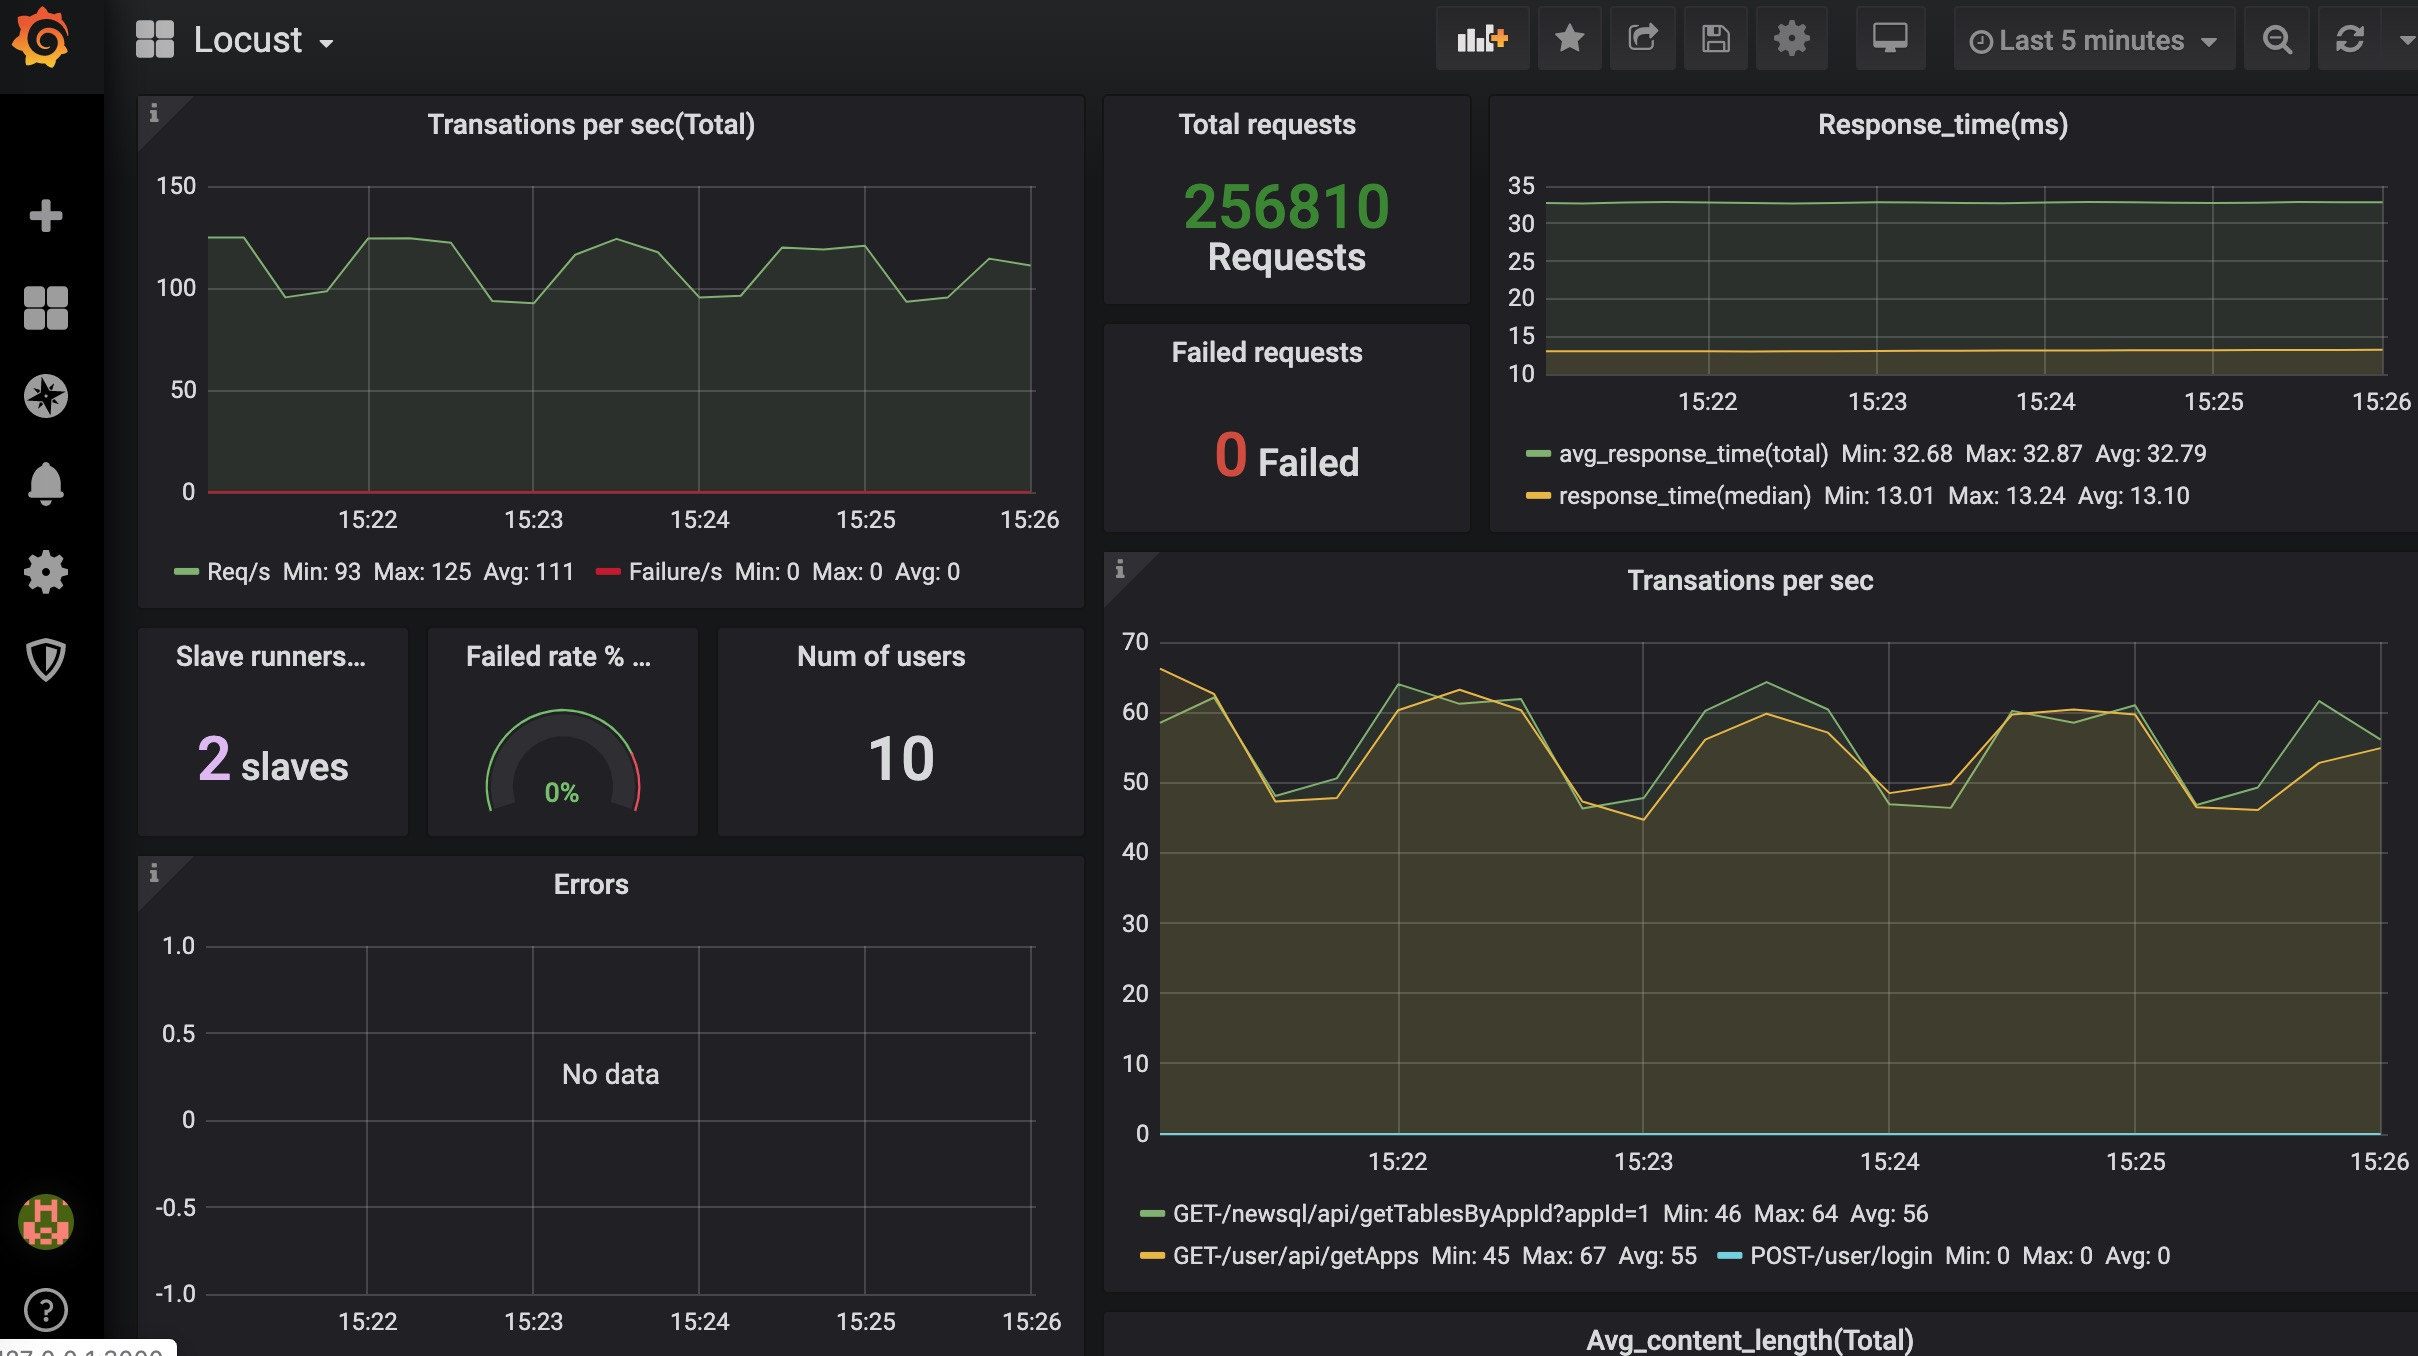
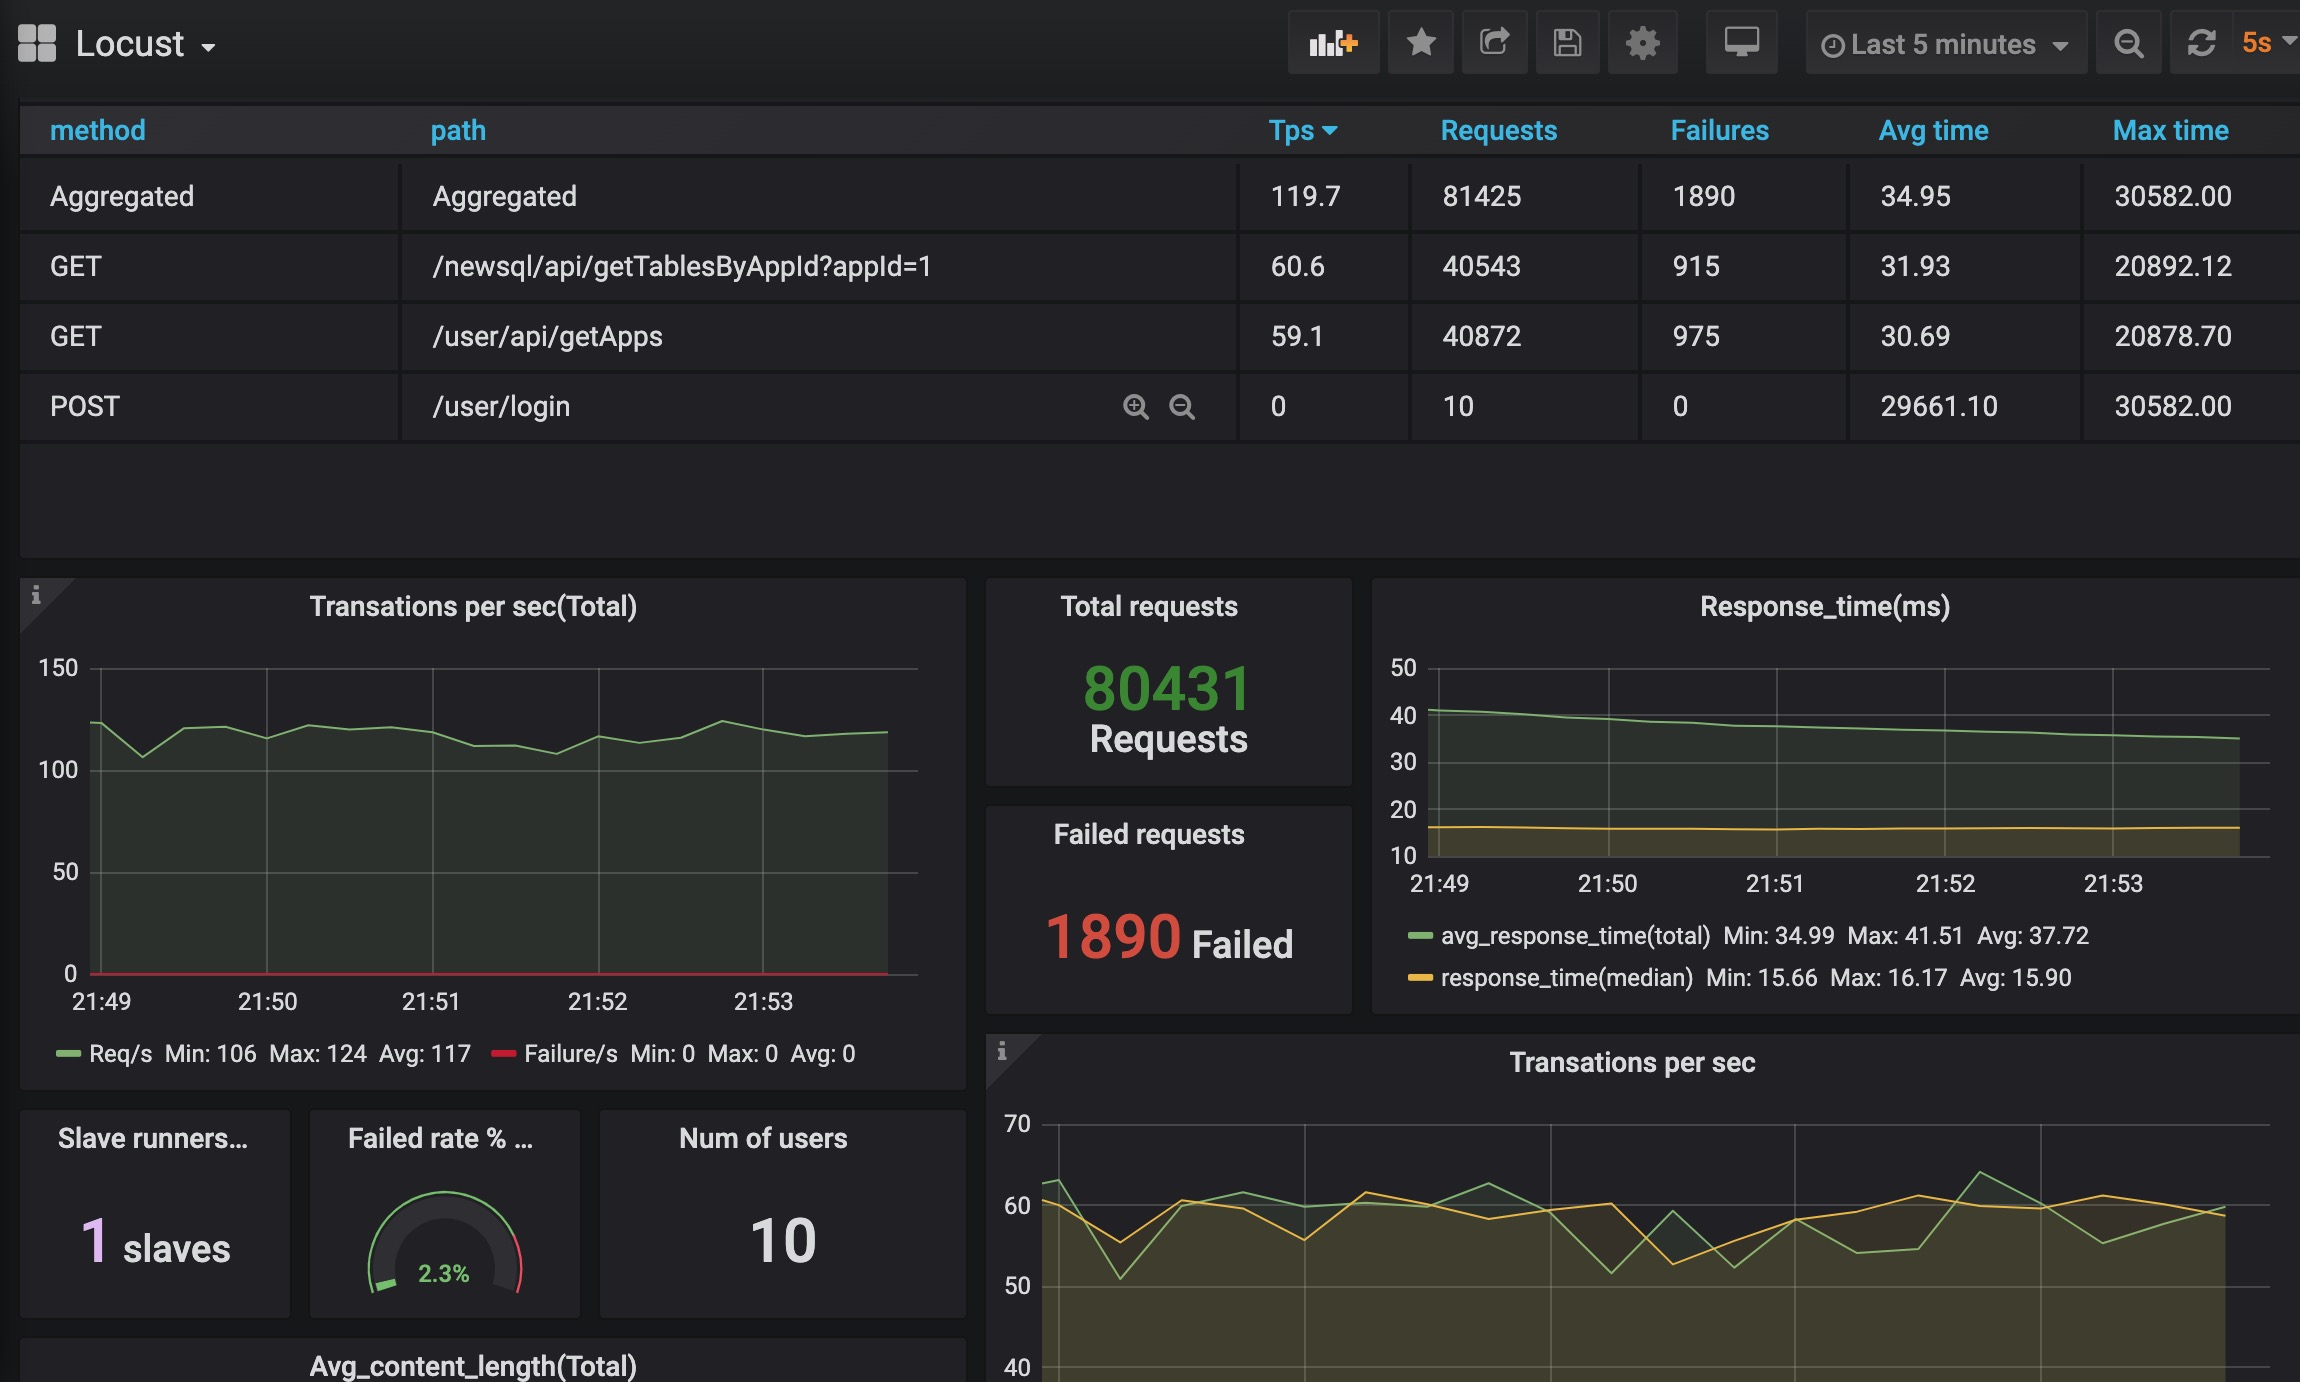
update

diff --git a/_posts/loadtest/2020-04-05-locust-with-prometheus-and-grafana.md b/_posts/loadtest/2020-04-05-locust-with-prometheus-and-grafana.md
@@ -32,7 +32,7 @@ published: true
 实现一个Locust的prometheus的exporter，将数据导入prometheus，然后使用grafana进行数据展示。
 ```
 
-*不难发现Jmeter在网上有许多类似方案的介绍，但很遗憾的是我没有找到很好实现Locust监控平台的实现，所以只能自己实现了。*
+*不难发现Jmeter在网上有许多类似方案的介绍，但很遗憾的是我没有找到很好实现Locust监控平台的方案，所以只能自己实现了。*
 
 
 ## Docker环境
@@ -42,104 +42,8 @@ Docker环境不是必须的，但是用过都说好。我们这次实战是在do
 ## 编写locsut prometheus exporter
 如Locust的官方文档所介绍的 [Extending Locust](https://docs.locust.io/en/stable/extending-locust.html) 我们可以扩展web端的接口，比如添加一个/export/prometheus 接口，这样Prometheus根据配置定时来拉取Metric信息就可以为Grafana所用了。这里需要使用Prometheus官方提供的client库，[prometheus_client](https://github.com/prometheus/client_python)，来生成符合Prometheus规范的metrics信息，具体的实现代码如下：
 
-```python
-#!/usr/bin/env python
-# coding: utf-8
+{% gist bd432509d76417c5242cff301dc09dbd %}
 
-"""
-    Created by bugVanisher on 2020-03-21
-"""
-
-from itertools import chain
-
-import six
-from flask import request, Response
-from prometheus_client import Metric, REGISTRY, exposition
-
-from locust import web, runners, stats as locust_stats
-
-class LocustCollector(object):
-    registry = REGISTRY
-
-    def collect(self):
-        # 只有在运行的时候才产生metric，这样在停止压测的时候prometheus就不会收集多余的数据.
-        if runners.locust_runner and runners.locust_runner.state in ([runners.STATE_HATCHING, runners.STATE_RUNNING]):
-
-            stats = []
-
-            for s in chain(locust_stats.sort_stats(runners.locust_runner.request_stats),
-                           [runners.locust_runner.stats.total]):
-                stats.append({
-                    "method": s.method,
-                    "name": s.name,
-                    "num_requests": s.num_requests,
-                    "num_failures": s.num_failures,
-                    "avg_response_time": s.avg_response_time,
-                    "min_response_time": s.min_response_time or 0,
-                    "max_response_time": s.max_response_time,
-                    "current_rps": s.current_rps,
-                    "median_response_time": s.median_response_time,
-                    "avg_content_length": s.avg_content_length,
-                    "current_fail_per_sec": s.current_fail_per_sec
-                })
-
-            # 这里的errors key是method+Name+Type哈希过的，相同method+Name的接口如果Type不一样会导致丢失部分数据（add_sample是被覆盖）
-            errors = [e.to_dict() for e in six.itervalues(runners.locust_runner.errors)]
-
-            metric = Metric('locust_user_count', 'Swarmed users', 'gauge')
-            metric.add_sample('locust_user_count', value=runners.locust_runner.user_count, labels={})
-            yield metric
-
-            metric = Metric('locust_errors', 'Locust requests errors', 'gauge')
-            for err in errors:
-                metric.add_sample('locust_errors', value=err['occurrences'],
-                                  labels={'path': err['name'], 'method': err['method']})
-            yield metric
-
-            is_distributed = isinstance(runners.locust_runner, runners.MasterLocustRunner)
-            if is_distributed:
-                metric = Metric('locust_slave_count', 'Locust number of slaves', 'gauge')
-                metric.add_sample('locust_slave_count', value=len(runners.locust_runner.clients.values()), labels={})
-                yield metric
-
-            metric = Metric('locust_fail_ratio', 'Locust failure ratio', 'gauge')
-            metric.add_sample('locust_fail_ratio', value=runners.locust_runner.stats.total.fail_ratio, labels={})
-            yield metric
-
-            metric = Metric('locust_state', 'State of the locust swarm', 'gauge')
-            metric.add_sample('locust_state', value=1, labels={'state': runners.locust_runner.state})
-            yield metric
-
-            stats_metrics = ['avg_content_length', 'avg_response_time', 'current_rps', 'current_fail_per_sec', 'max_response_time',
-                             'median_response_time', 'min_response_time', 'num_failures', 'num_requests']
-
-            for mtr in stats_metrics:
-                mtype = 'gauge'
-                if mtr in ['num_requests', 'num_failures']:
-                    mtype = 'counter'
-                metric = Metric('locust_requests_' + mtr, 'Locust requests ' + mtr, mtype)
-                for stat in stats:
-                    # Aggregated stats method label is None, so name it as total
-                    # locust change name Total to Aggregated since 0.12.1
-                    if 'Aggregated' != stat['name']:
-                        metric.add_sample('locust_stats_' + mtr, value=stat[mtr],
-                                          labels={'path': stat['name'], 'method': stat['method']})
-                    else:
-                        metric.add_sample('locust_stats_' + mtr, value=stat[mtr],
-                                          labels={'path': stat['name'], 'method': 'Aggregated'})
-                yield metric
-
-
-@web.app.route("/export/prometheus")
-def prometheus_exporter():
-    registry = REGISTRY
-    encoder, content_type = exposition.choose_encoder(request.headers.get('Accept'))
-    if 'name[]' in request.args:
-        registry = REGISTRY.restricted_registry(request.args.get('name[]'))
-    body = encoder(registry)
-    return Response(body, content_type=content_type)
-
-```
 以上文件命名为exporter.py,下面编写一个Demo.py：
 
 ```python
@@ -263,7 +167,7 @@ docker run -d -p 3000:3000 grafana/grafana
 ![]({{ site.url }}/assets/locust/db_list.jpg)
 
 5) 导入模板
-导入模板有几种方式，这里我们使用导入[json](https://gist.github.com/bugVanisher/042759e1d6971e14bc21f1d0510688f2)
+导入模板有几种方式，这里我们使用导入[json](https://gist.github.com/bugVanisher/5ddd563a6caf03329d51cd9b5d5fd629)
 ![]({{ site.url }}/assets/locust/import.jpg)
 ![]({{ site.url }}/assets/locust/import_json.jpg)
 
@@ -272,6 +176,8 @@ docker run -d -p 3000:3000 grafana/grafana
 经过一系列『折腾』之后，是时候看看效果了。使用 Docker + Locust + Prometheus + Grafana 到底可以搭建怎样的性能监控平台呢？相比较 Locust 自带的监控平台，我们搭建的性能监控平台究竟有什么优势呢？接下来就是展示成果的时候啦！
 
 ![]({{ site.url }}/assets/locust/dashboard.jpg)
+
+![]({{ site.url }}/assets/locust/dashboard2.jpg)
 
 这个监控方案不仅提供了炫酷好看的图表，，还能持久化存储所有压测数据，可以使用Share Dashboard功能保存测试报告并分享，简直太方便！
 
